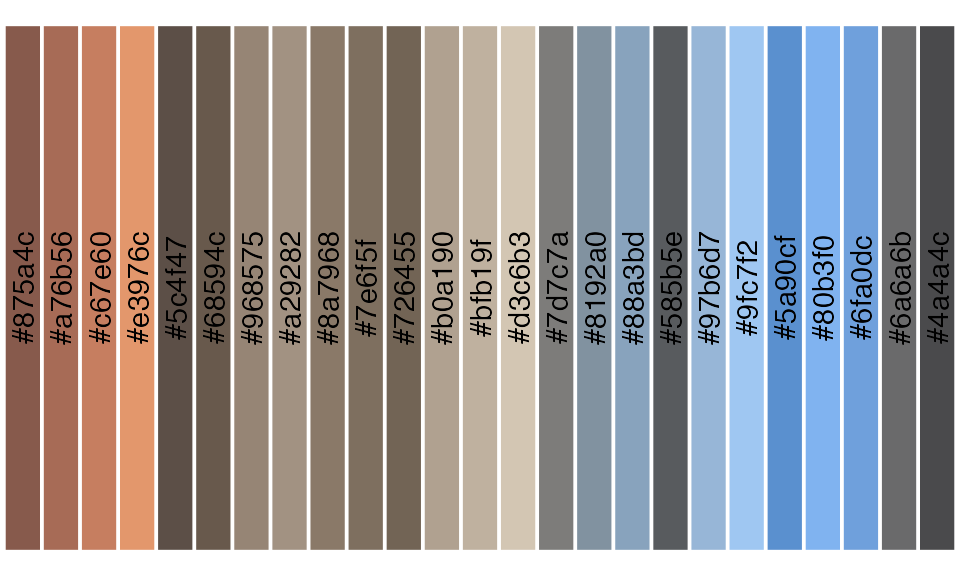
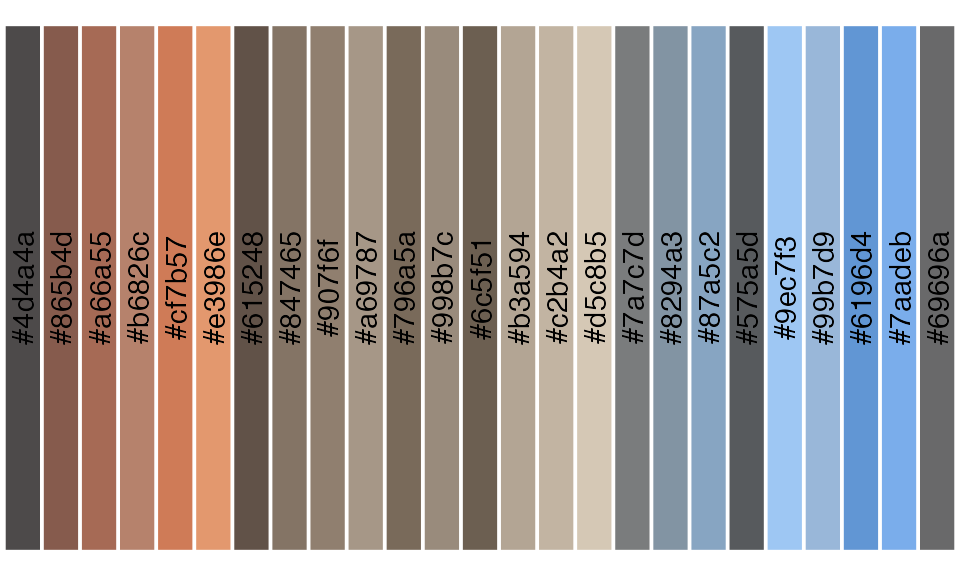
Rebuilt `pkgdown` site

diff --git a/docs/articles/lterpalettefinder.html b/docs/articles/lterpalettefinder.html
@@ -118,10 +118,10 @@ identified by k-means clustering on the red, green, blue bands extracted
 from the image) stored as hexadecimal codes.</p>
 <div class="sourceCode" id="cb3"><pre class="downlit sourceCode r">
 <code class="sourceCode R"><span><span class="va">fire_palette</span></span>
-<span><span class="co">#&gt;  [1] "#bfb19f" "#968575" "#4a4a4c" "#6a6a6b" "#68594c" "#a29282" "#8192a0"</span></span>
-<span><span class="co">#&gt;  [8] "#585b5e" "#726455" "#c67e60" "#e3976c" "#d3c6b3" "#7e6f5f" "#9fc7f2"</span></span>
-<span><span class="co">#&gt; [15] "#7d7c7a" "#8a7968" "#80b3f0" "#875a4c" "#b0a190" "#5a90cf" "#5c4f47"</span></span>
-<span><span class="co">#&gt; [22] "#97b6d7" "#6fa0dc" "#88a3bd" "#a76b56"</span></span></code></pre></div>
+<span><span class="co">#&gt;  [1] "#69696a" "#4d4a4a" "#b3a594" "#a69787" "#847465" "#e3986e" "#99b7d9"</span></span>
+<span><span class="co">#&gt;  [8] "#9ec7f3" "#6196d4" "#575a5d" "#7aadeb" "#907f6f" "#865b4d" "#7a7c7d"</span></span>
+<span><span class="co">#&gt; [15] "#8294a3" "#cf7b57" "#c2b4a2" "#6c5f51" "#615248" "#b6826c" "#d5c8b5"</span></span>
+<span><span class="co">#&gt; [22] "#87a5c2" "#998b7c" "#796a5a" "#a66a55"</span></span></code></pre></div>
 </div>
 <div class="section level3">
 <h3 id="viewing-the-palette">Viewing the Palette<a class="anchor" aria-label="anchor" href="#viewing-the-palette"></a>

diff --git a/docs/index.html b/docs/index.html
@@ -65,7 +65,7 @@
   </div>
 </nav><div class="container template-home">
 <div class="row">
-  <main id="main" class="col-md-9"><p><img src="reference/figures/_lterpalettefinder_hex.png" align="right" width="15%"></p>
+  <main id="main" class="col-md-9"><p><img src="reference/figures/lterpalettefinder_hex.png" align="right" width="15%"></p>
 <div class="section level1">
 <div class="page-header"><h1 id="lterpalettefinder---extract-color-palettes-from-photos-and-pick-official-lter-palettes">
 <code>lterpalettefinder</code> - Extract Color Palettes from Photos and Pick Official LTER Palettes<a class="anchor" aria-label="anchor" href="#lterpalettefinder---extract-color-palettes-from-photos-and-pick-official-lter-palettes"></a>
